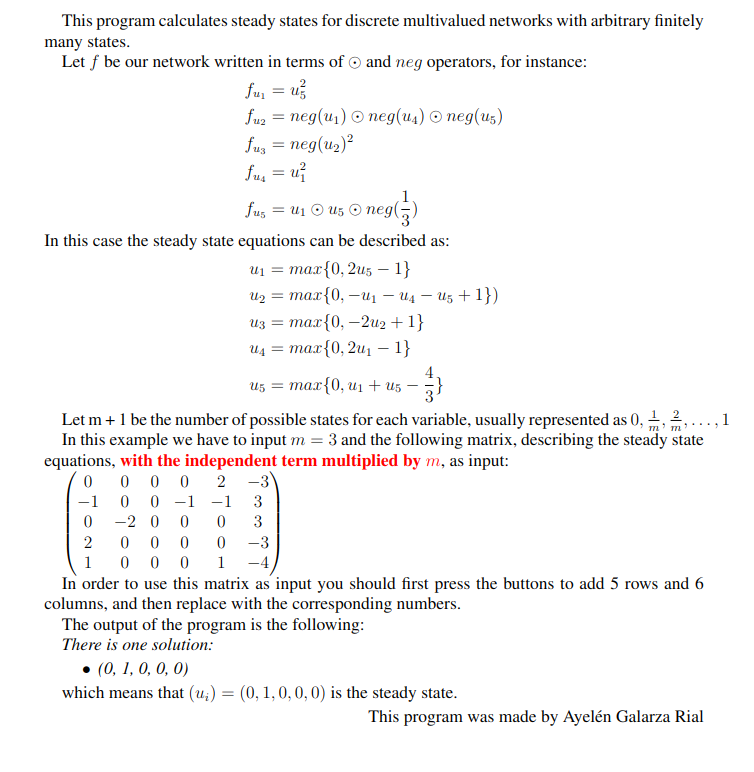
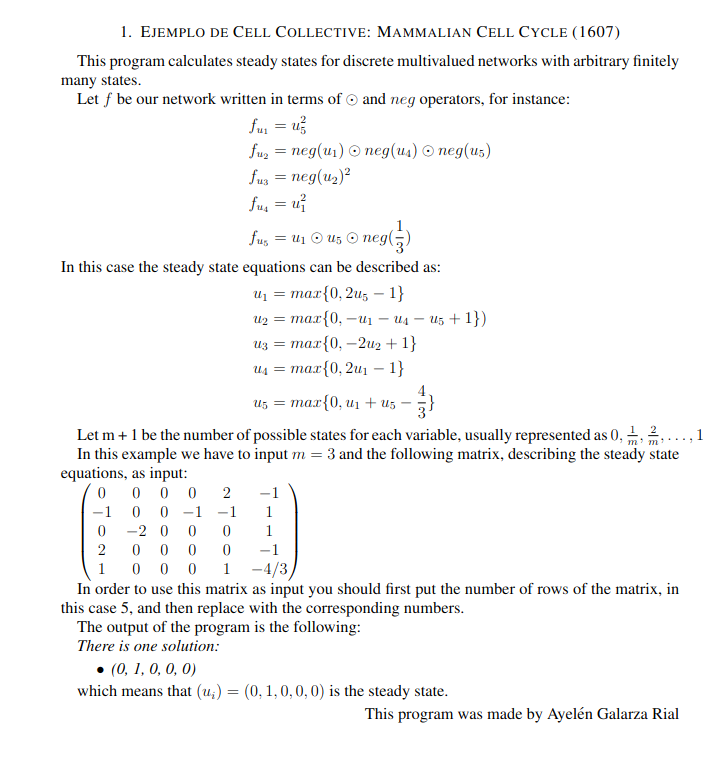
Various frontend changes: -  Updated the first parameter in the list to `m`, and constants are now requested as fractions instead of scaled by `m`, when necessary. - Added functionality to request the number of rows, generating a k x (k+1) matrix and replacing the "add" and "remove columns" buttons.

Changed region(s): [[0.0607, 0.0, 0.9407, 0.9637], [0.9407, 0.5285, 0.971, 0.5596]]

diff --git a/frontend.py b/frontend.py
@@ -52,10 +52,14 @@ class MatrixProcessorApp(QWidget):
         self.m_label = QLabel("Enter Integer m:")
         self.entry_m = QLineEdit(self)
         self.entry_m.setMaximumWidth(50)
+        self.number_of_rows_label = QLabel("Enter number of rows")
+        self.number_of_rows = QLineEdit(self)
+        self.number_of_rows.setMaximumWidth(50)
+
         self.submit_button = QPushButton("Submit", self)
         self.result_label = QTextEdit("")
         self.result_label.setReadOnly(True)
-        self.result_label.setFont(QFont('Arial', 50))
+        self.result_label.setFont(QFont('Arial', 20))
 
         # Loading animation
         self.loading_bar = QProgressBar(self)
@@ -66,50 +70,33 @@ class MatrixProcessorApp(QWidget):
         matrix_layout.addWidget(self.matrix_label)
         matrix_layout.addWidget(self.entry_matrix)
 
-        button_layout = QHBoxLayout()
-        add_row_button = QPushButton("Add Row", self)
-        add_row_button.setToolTip("Add Row (Ctrl+R)")
-        add_row_button.setShortcut("Ctrl+R")
-        add_row_button.clicked.connect(self.add_row)
-        button_layout.addWidget(add_row_button)
-
-        remove_row_button = QPushButton("Remove Row", self)
-        remove_row_button.setToolTip("Remove Row (Ctrl+Shift+R)")
-        remove_row_button.setShortcut("Ctrl+Shift+R")
-        remove_row_button.clicked.connect(self.remove_row)
-        button_layout.addWidget(remove_row_button)
-
-        add_col_button = QPushButton("Add Column", self)
-        add_col_button.setToolTip("Add Column (Ctrl+C)")
-        add_col_button.setShortcut("Ctrl+C")
-        add_col_button.clicked.connect(self.add_column)
-        button_layout.addWidget(add_col_button)
-
-        remove_col_button = QPushButton("Remove Column", self)
-        remove_col_button.setToolTip("Remove Column (Ctrl+Shift+C)")
-        remove_col_button.setShortcut("Ctrl+Shift+C")
-        remove_col_button.clicked.connect(self.remove_column)
-        button_layout.addWidget(remove_col_button)
+        help_button_layout = QHBoxLayout()
+        #self.old_buttons(help_button_layout)
 
         help_button = QPushButton("Help", self)
         help_button.setToolTip("Help (Ctrl+H)")
         help_button.setShortcut("Ctrl+H")
         help_button.clicked.connect(self.open_help_window)
-        button_layout.addWidget(help_button)
+        help_button_layout.addWidget(help_button)
+        input_rows_layout = QVBoxLayout()
 
-        matrix_layout.addLayout(button_layout)
+        input_rows_layout.addWidget(self.number_of_rows_label)
+        input_rows_layout.addWidget(self.number_of_rows)
 
-        input_layout = QVBoxLayout()
-        input_layout.addWidget(self.m_label)
-        input_layout.addWidget(self.entry_m)
+        input_m_layout = QVBoxLayout()
+        input_m_layout.addWidget(self.m_label)
+        input_m_layout.addWidget(self.entry_m)
 
         main_layout = QVBoxLayout(self)
+        main_layout.addLayout(input_m_layout)
+        main_layout.addLayout(input_rows_layout)
+
         main_layout.addLayout(matrix_layout)
-        main_layout.addLayout(input_layout)
 
         main_layout.addWidget(self.submit_button)
         main_layout.addWidget(self.result_label)
         main_layout.addWidget(self.loading_bar)
+        main_layout.addLayout(help_button_layout)
 
         self.setLayout(main_layout)
 
@@ -119,12 +106,36 @@ class MatrixProcessorApp(QWidget):
         # Connect the itemChanged signal to the on_matrix_item_changed method
         self.entry_matrix.itemChanged.connect(self.on_matrix_item_changed)
 
+        self.number_of_rows.editingFinished.connect(self.number_of_rows_changed)
+
         # Set up the main window
         self.setWindowTitle("Fixed points of MV networks")
         self.setGeometry(100, 100, 800, 400)
 
         self.help_window = HelpWindow()
         self.show()
+
+    def old_buttons(self, button_layout):
+        add_row_button = QPushButton("Add Row", self)
+        add_row_button.setToolTip("Add Row (Ctrl+R)")
+        add_row_button.setShortcut("Ctrl+R")
+        add_row_button.clicked.connect(self.add_row)
+        button_layout.addWidget(add_row_button)
+        remove_row_button = QPushButton("Remove Row", self)
+        remove_row_button.setToolTip("Remove Row (Ctrl+Shift+R)")
+        remove_row_button.setShortcut("Ctrl+Shift+R")
+        remove_row_button.clicked.connect(self.remove_row)
+        button_layout.addWidget(remove_row_button)
+        add_col_button = QPushButton("Add Column", self)
+        add_col_button.setToolTip("Add Column (Ctrl+C)")
+        add_col_button.setShortcut("Ctrl+C")
+        add_col_button.clicked.connect(self.add_column)
+        button_layout.addWidget(add_col_button)
+        remove_col_button = QPushButton("Remove Column", self)
+        remove_col_button.setToolTip("Remove Column (Ctrl+Shift+C)")
+        remove_col_button.setShortcut("Ctrl+Shift+C")
+        remove_col_button.clicked.connect(self.remove_column)
+        button_layout.addWidget(remove_col_button)
 
     def open_help_window(self):
         self.help_window.show()
@@ -173,11 +184,11 @@ class MatrixProcessorApp(QWidget):
         integer2 = self.validate_integer_input(self.entry_m.text())
 
         if matrix is None or integer2 is None:
-            self.show_error("Please enter valid integers.")
+            self.show_error("""Only integer numbers are accepted,
+                                   or fractions with m as denominator in last column of the matrix.""")
             return
 
         result = self.pretty_print_result(integer2, self.process_input(np.array(matrix), integer2))
-        print("klala", result)
         self.result_label.setText(f"{result}")
         self.loading_bar.setVisible(False)
 
@@ -192,8 +203,7 @@ class MatrixProcessorApp(QWidget):
     def pretty_print(self, m, solution):
         return ", ".join(self.pretty_print_element(m, element) for element in solution.split(","))
 
-    def pretty_print_element(self, m,  element):
-        print(element)
+    def pretty_print_element(self, m, element):
         if int(element) == 0:
             return "0"
         elif int(element) == m:
@@ -201,17 +211,35 @@ class MatrixProcessorApp(QWidget):
         else:
             return f"{element}/{m}"
 
-
     def on_matrix_item_changed(self, item):
         # Update the value of the matrix item when changed
         if not self.validate_matrix_item(item):
             self.show_invalid_input_message()
 
+    def number_of_rows_changed(self):
+        text = self.number_of_rows.text()
+        if not self.is_valid_integer(text):
+            self.show_error("Please enter valid integers.")
+            self.number_of_rows.setText(str(self.entry_matrix.rowCount()))
+            return False
+        self.entry_matrix.setRowCount(0)
+        self.entry_matrix.setColumnCount(0)
+        for row in range(self.rows()):
+            self.add_row()
+            self.add_column()
+        self.add_column()
+        return True
+
+    def rows(self):
+        return int(self.number_of_rows.text())
+
     def validate_matrix_item(self, item):
         # Validate and update the matrix item content
         text = item.text()
-        if not self.is_valid_integer(text):
+        if item.column() != self.rows() and not self.is_valid_integer(text):
             item.setText("0")
+            return False
+        if item.column() == self.rows() and not self.is_valid_fraction_or_integer(text):
             return False
         return True
 
@@ -219,13 +247,19 @@ class MatrixProcessorApp(QWidget):
         matrix_values = []
         for row in range(self.entry_matrix.rowCount()):
             row_values = []
-            for col in range(self.entry_matrix.columnCount()):
+            for col in range(self.entry_matrix.columnCount()-1):
                 item_text = self.entry_matrix.item(row, col).text()
                 if not self.is_valid_integer(item_text):
                     return None
                 row_values.append(int(item_text))
+            item_text = self.entry_matrix.item(row, self.entry_matrix.columnCount()-1).text()
+            if not self.is_valid_fraction_or_integer(item_text):
+                return None
+            if self.is_valid_integer(item_text):
+                row_values.append(int(item_text) * int(self.entry_m.text()))
+            else:
+                row_values.append(int(item_text.split("/")[0]))
             matrix_values.append(row_values)
-        print("matrix_values", matrix_values)
         return matrix_values
 
     def validate_integer_input(self, text):
@@ -240,17 +274,37 @@ class MatrixProcessorApp(QWidget):
         except ValueError:
             return False
 
-    def show_error(self, message):
-        error_dialog = QInputDialog(self)
-        error_dialog.setInputMode(QInputDialog.TextInput)
-        error_dialog.setWindowTitle("Error")
-        error_dialog.setLabelText(message)
-        error_dialog.exec_()
+    def is_valid_fraction_or_integer(self, text):
+        if self.is_valid_integer(text):
+            return True
 
-    def show_invalid_input_message(self):
+        a = text.split("/")
+        if len(a)!=2:
+            return False
+        if not self.is_valid_integer(a[0]):
+            return False
+        if not self.is_valid_integer(a[1]):
+            return False
+        if int(a[1]) != int(self.entry_m.text()):
+            return False
+        return True
+
+
+    def show_error(self, message):
+        self.show_invalid_input_message(message)
+        #return
+        #error_dialog = QLabel(self)
+        #error_dialog.setInputMode(QLabel.TextInput)
+        #error_dialog.setWindowTitle("Error")
+        #error_dialog.setLabelText(message)
+        #error_dialog.exec_()
+
+    def show_invalid_input_message(self,
+                                   message="""Only integer numbers are accepted in the matrix,
+                                   or fractions with m as denominator in last column."""):
         msg_box = QMessageBox()
         msg_box.setIcon(QMessageBox.Warning)
-        msg_box.setText("Only integer numbers are accepted in the matrix.")
+        msg_box.setText(message)
         msg_box.setWindowTitle("Invalid Input")
         msg_box.exec_()
 
